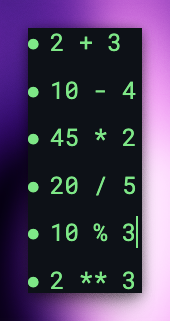
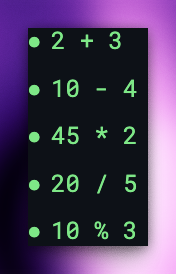
Update course instructions and workflow validations
- Update authentication instructions to use 'copilot --allow-all' and '!gh auth login'
- Replace /share gist with /context command in step 1 activities
- Improve prompt clarity for creating GitHub issues with specific template references
- Update workflow validation to check for 'addition', 'subtraction', 'multiplication', 'division' instead of 'add', 'subtract', 'multiply', 'divide'
- Add helpful notes about copilot --allow-all and viewing test output
- Refine prompts for better learner experience
- Update calculator operations image

diff --git a/.github/steps/3-step.md b/.github/steps/3-step.md
@@ -55,7 +55,8 @@ As you add features, Copilot CLI can help you:
 - Save and share your development sessions using `/share`
 
 > [!IMPORTANT]
-> You may need to authenticate with GitHub before using GitHub CLI commands. Run `gh auth login` in your terminal, or use `!gh auth login` from within the Copilot CLI session.
+> If you have restarted your codespace you may need to run `copilot --allow-all` and then authenticate with GitHub again by running `!gh auth login` in your terminal,
+> or use `!gh auth login` from within the Copilot CLI session.
 
 ### ⌨ Activity: Add More Operations to the Calculator
 
@@ -64,7 +65,7 @@ As you add features, Copilot CLI can help you:
    > ![Static Badge](https://img.shields.io/badge/-Prompt-text?style=social&logo=github%20copilot)
    >
    > ```prompt
-   > copilot
+   > copilot --allow-all
    > ```
 
 1. Ask Copilot CLI to help you create another issue for expanding the calculator:
@@ -72,9 +73,12 @@ As you add features, Copilot CLI can help you:
    > ![Static Badge](https://img.shields.io/badge/-Prompt-text?style=social&logo=github%20copilot)
    >
    > ```prompt
-   > Help me create a GitHub issue to add more operations to my calculator. 
-   > I want to add modulo, exponentiation (power), and square root functions 
-   > with proper error handling using the feature request issue template.
+   > Create a GitHub issue for a Node.js CLI calculator app using the feature_request.md template as the format.
+   > I want to request a feature to add more operations including 
+   > - modulo
+   > - exponentiation (power)
+   > - square root
+   > The calculator should be implemented in calculator.js and create the issue directly in the current owner/repository on github.com.
    > ```
 
 1. Work with Copilot CLI to implement the new operations:
@@ -82,7 +86,7 @@ As you add features, Copilot CLI can help you:
    > ![Static Badge](https://img.shields.io/badge/-Prompt-text?style=social&logo=github%20copilot)
    >
    > ```prompt
-   > Help me add these functions to my calculator.js based on latest issue created:
+   > Add these functions to my existing calculator.js based on latest issue created:
    > 1. modulo(a, b) - returns the remainder of a divided by b
    > 2. power(base, exponent) - returns base raised to the exponent
    > 3. squareRoot(n) - returns the square root of n with error handling for negative numbers
@@ -93,9 +97,10 @@ As you add features, Copilot CLI can help you:
       > ![Static Badge](https://img.shields.io/badge/-Prompt-text?style=social&logo=github%20copilot)
       >
       > ```prompt
-      > copilot -p "Add modulo, exponentiation (power), 
-      > and square root functions to a Node.js calculator module. 
-      > Include proper error handling for edge cases like negative square roots."
+      > copilot -p "Add these functions to my existing calculator.js based on latest issue created:
+      > 1. modulo(a, b) - returns the remainder of a divided by b
+      > 2. power(base, exponent) - returns base raised to the exponent
+      > 3. squareRoot(n) - returns the square root of n with error handling for negative numbers"
       > ```
 
 1. Test your new functions and add tests:
@@ -106,7 +111,7 @@ As you add features, Copilot CLI can help you:
    > Add tests for the new calculator operations: 
    > - Expand tests based on the following example:
    >   - @images/calc-extended-operations.png
-   > - Add these tests to a src/tests/calculator.test.js file
+   > - Add these tests to the existing src/tests/calculator.test.js file
    > - Use a popular Node.js testing framework if one isn't installed
    > - Make sure to include edge case tests like square root of negative numbers
    > - Make sure all tests run and pass

diff --git a/.github/steps/1-step.md b/.github/steps/1-step.md
@@ -41,7 +41,8 @@ Issue templates help maintain consistency when team members create issues. This 
 - [GitHub Copilot CLI 101](https://github.blog/ai-and-ml/github-copilot-cli-101-how-to-use-github-copilot-from-the-command-line/)
 
 > [!IMPORTANT]
-> You may need to authenticate with GitHub before using GitHub CLI commands. Run `gh auth login` in your terminal, or use `!gh auth login` from within the Copilot CLI session.
+> If you have restarted your codespace you may need to run `copilot --allow-all` and then authenticate with GitHub again by running `!gh auth login` in your terminal,
+> or use `!gh auth login` from within the Copilot CLI session.
 
 ### :keyboard: Activity 1: Getting to know your development environment
 
@@ -100,6 +101,9 @@ Issue templates help maintain consistency when team members create issues. This 
 
 ### ⌨ Activity 3: Create an Issue Using Copilot CLI
 
+> [!NOTE]
+> `copilot --allow-all` enables all features of Copilot CLI, including those that may require additional permissions. This is useful for development and testing purposes.
+
 1. Start an interactive Copilot CLI session:
 
    > ![Static Badge](https://img.shields.io/badge/-Prompt-text?style=social&logo=github%20copilot)
@@ -116,11 +120,11 @@ Issue templates help maintain consistency when team members create issues. This 
    > ![Static Badge](https://img.shields.io/badge/-Prompt-text?style=social&logo=github%20copilot)
    >
    > ```prompt
-   > /login
+   > !gh auth login
    > ```
 
 > [!NOTE]
-> After running `/login`, you will be provided with a link and an authentication code. Click the link to open GitHub in your browser, then enter the code to complete the authentication process.
+> After running `!gh auth login`, you will be provided with a link and an authentication code. Click the link to open GitHub in your browser, then enter the code to complete the authentication process.
 
 1. Explore useful slash commands in Copilot CLI:
 
@@ -132,29 +136,29 @@ Issue templates help maintain consistency when team members create issues. This 
      > /session
      > ```
 
-   - Share your session as a GitHub gist for future reference:
+   - View your current context information:
 
      > ![Static Badge](https://img.shields.io/badge/-Prompt-text?style=social&logo=github%20copilot)
      >
      > ```prompt
-     > /share gist
+     > /context
      > ```
 
 > [!TIP]
-> The `/session` command shows details about your current chat session. The `/share gist` command saves your conversation as a GitHub gist, which is useful for sharing solutions or keeping a record of helpful interactions.
+> The `/session` command shows details about your current chat session. The `/context` command displays context information about files and resources currently being used in your conversation.
 
 1. Ask Copilot CLI to help you create a feature request issue for the calculator app:
 
    > ![Static Badge](https://img.shields.io/badge/-Prompt-text?style=social&logo=github%20copilot)
    >
    > ```prompt
-   > Create a GitHub issue for a Node.js CLI calculator app using the issue template as the format.
+   > Create a GitHub issue for a Node.js CLI calculator app using the feature_request.md template as the format.
    > I want to request a feature for basic arithmetic operations including 
    > - addition
    > - subtraction
    > - multiplication
    > - division
-   > The calculator should be implemented in calculator.js.
+   > The calculator should be implemented in calculator.js and create the issue directly in the current owner/repository on github.com.
    > ```
 
 > [!NOTE]

diff --git a/.github/steps/2-step.md b/.github/steps/2-step.md
@@ -46,7 +46,8 @@ When you have larger tasks, you can delegate them to Copilot coding agent:
 > - [About custom agents](https://docs.github.com/en/copilot/concepts/agents/coding-agent/about-custom-agents)
 
 > [!IMPORTANT]
-> You may need to authenticate with GitHub before using GitHub CLI commands. Use the `/login` command once you are in the Copilot CLI interactively.
+> If you have restarted your codespace you may need to run `copilot --allow-all` and then authenticate with GitHub again by running `!gh auth login` in your terminal,
+> or use `!gh auth login` from within the Copilot CLI session.
 
 ### ⌨ Activity: Create a New Branch for the Calculator App
 
@@ -88,9 +89,9 @@ When you have larger tasks, you can delegate them to Copilot coding agent:
    > ```prompt
    > @images/js-calculator.png help me create a Node.js CLI calculator app 
    > based on this image and all the math operations shown and detailed
-   > in the latest issue in this repository.
-   > Make sure to create the 'src' directory 
-   > and put all the app code for the calculator there.
+   > in the latest issue in this owner/repository.
+   > Create the code and put it in the 'src' directory.
+   > Make sure the calculator is commented with the operations it supports.
    > ```
 
    1. Optional alternatively, use the headless mode with a prompt:
@@ -100,9 +101,9 @@ When you have larger tasks, you can delegate them to Copilot coding agent:
       > ```prompt
       > copilot -p "@images/js-calculator.png help me create a Node.js CLI calculator app 
       > based on this image and all the math operations shown and detailed
-      > in the latest issue in this repository.
-      > Make sure to create the 'src' directory
-      > and put all the app code for the calculator there."
+      > in the latest issue in this owner/repository.
+      > Create the code and put it in the 'src' directory.
+      > Make sure the calculator is commented with the operations it supports."
       > ```
 
 > [!NOTE]
@@ -131,6 +132,9 @@ When you have larger tasks, you can delegate them to Copilot coding agent:
    > - test edge cases like division by zero
    > - Make sure all tests run and pass
    > ```
+
+> [!NOTE]
+> Hit ctrl+o to see output of the passed tests that Copilot CLI ran for you!
   
 1. Once satisfied with the code, commit your changes through Copilot CLI:
 

diff --git a/.github/steps/4-step.md b/.github/steps/4-step.md
@@ -45,7 +45,8 @@ The Copilot CLI enables you to:
 - [GitHub Copilot as a Code Reviewer](https://docs.github.com/en/copilot/best-practices-for-using-github-copilot/best-practices-for-code-review-with-github-copilot)
 
 > [!IMPORTANT]
-> You may need to authenticate with GitHub before using GitHub CLI commands. Run `gh auth login` in your terminal, or use `!gh auth login` from within the Copilot CLI session.
+> If you have restarted your codespace you may need to run `copilot --allow-all` and then authenticate with GitHub again by running `!gh auth login` in your terminal,
+> or use `!gh auth login` from within the Copilot CLI session.
 
 ### ⌨ Activity: Complete Your Pull Request Workflow
 
